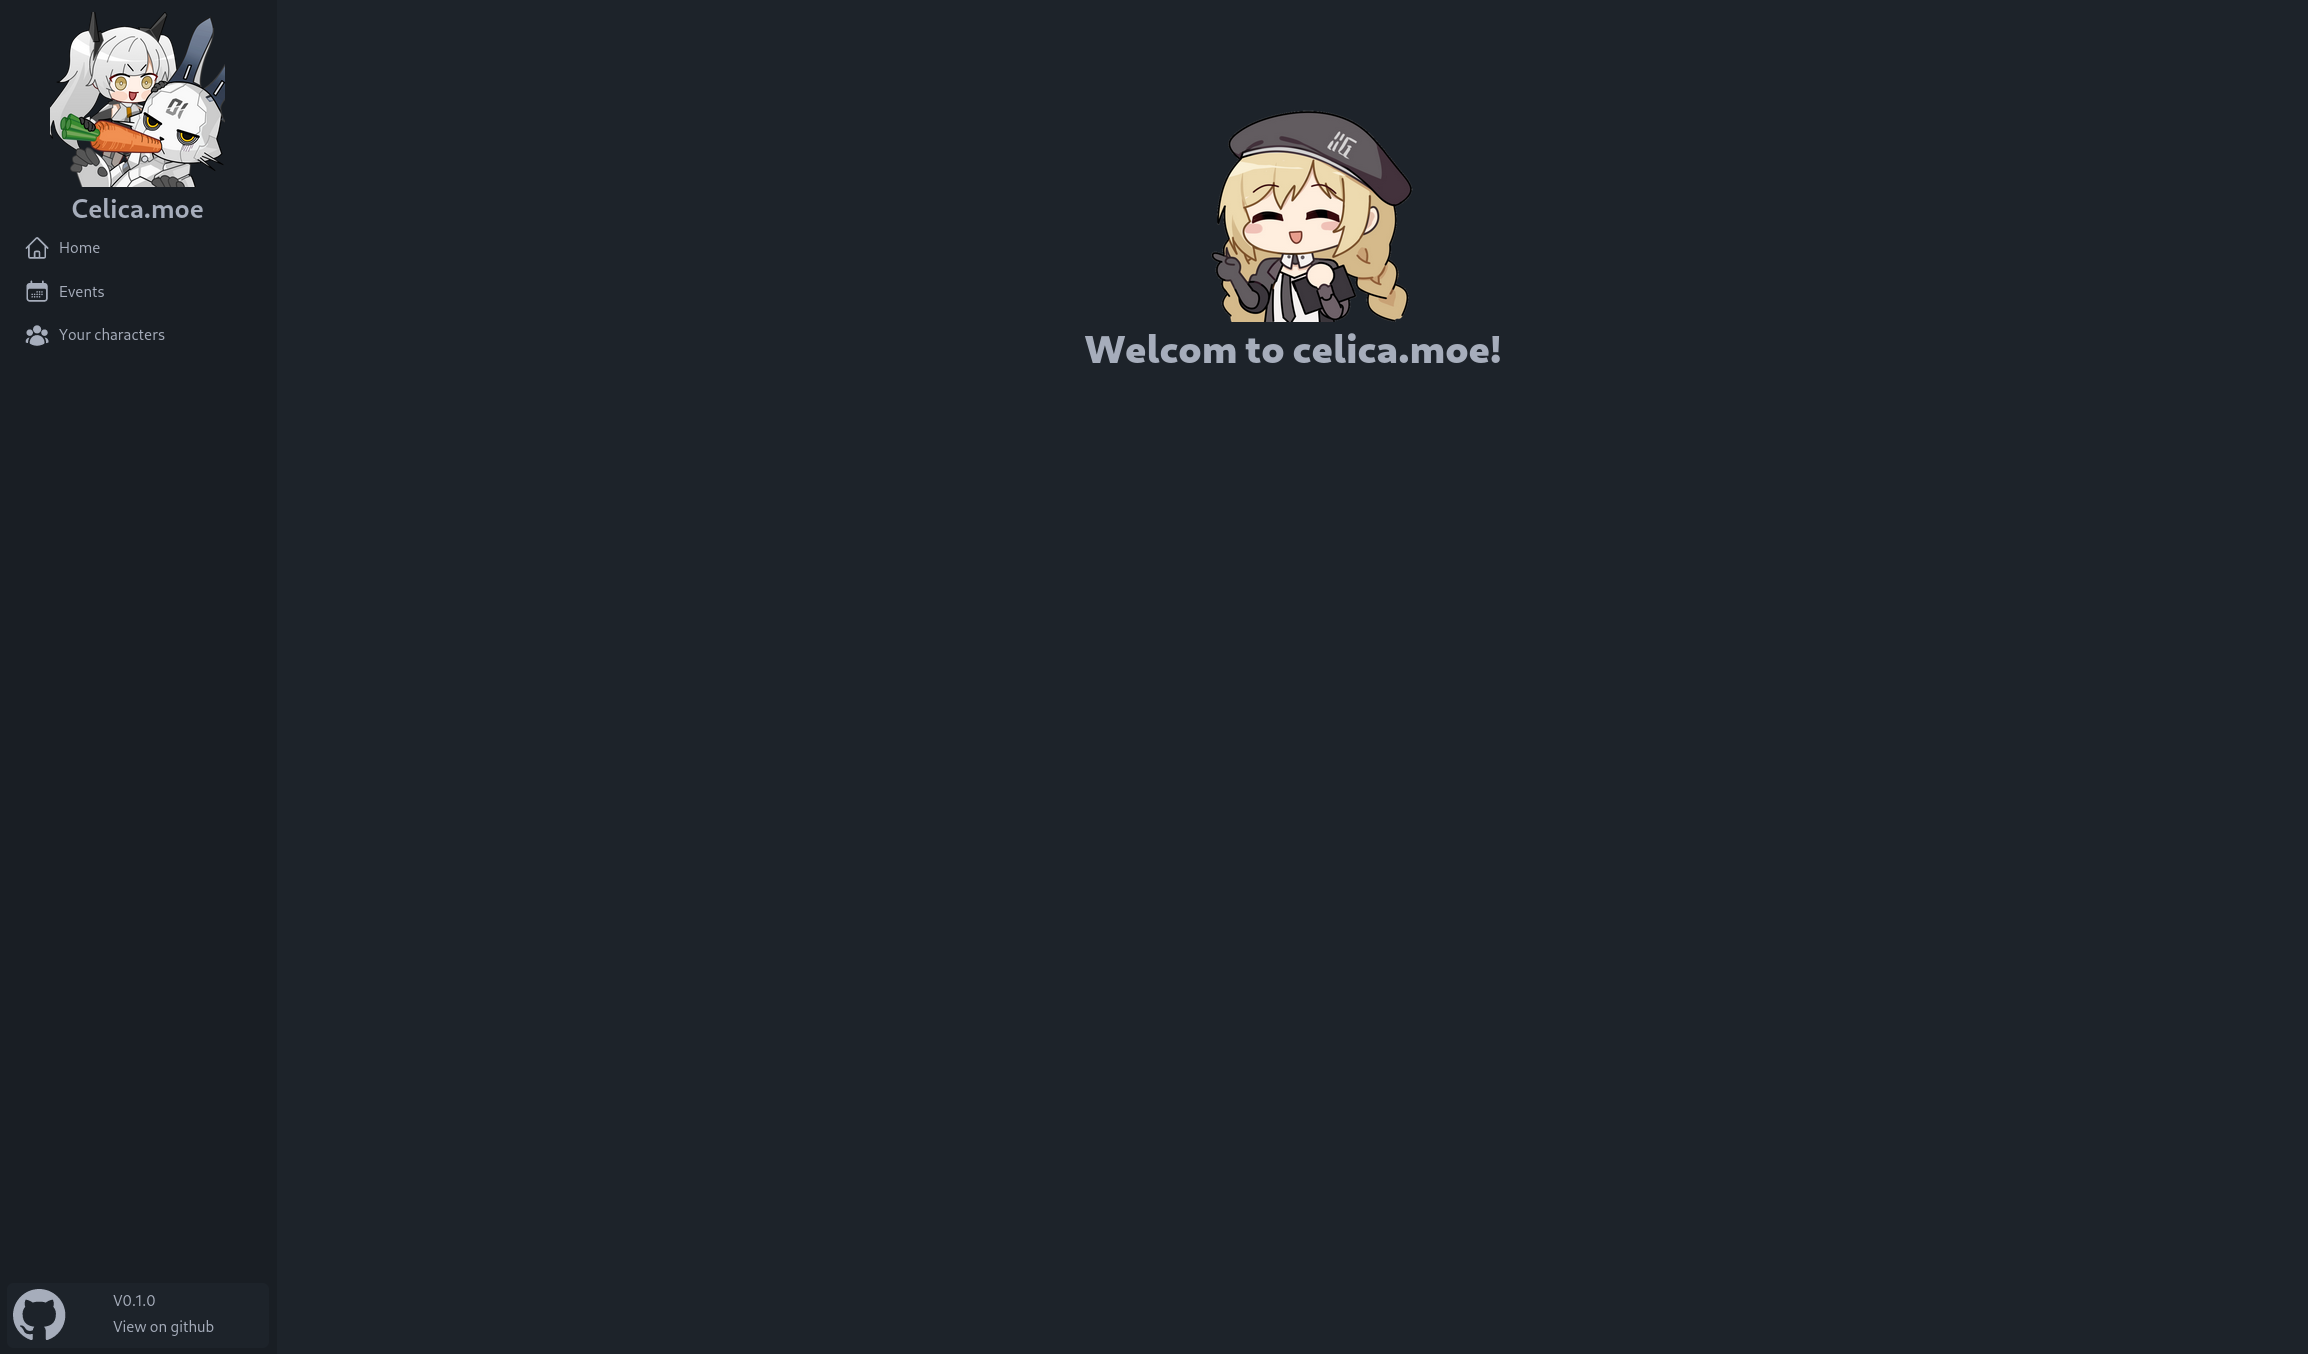
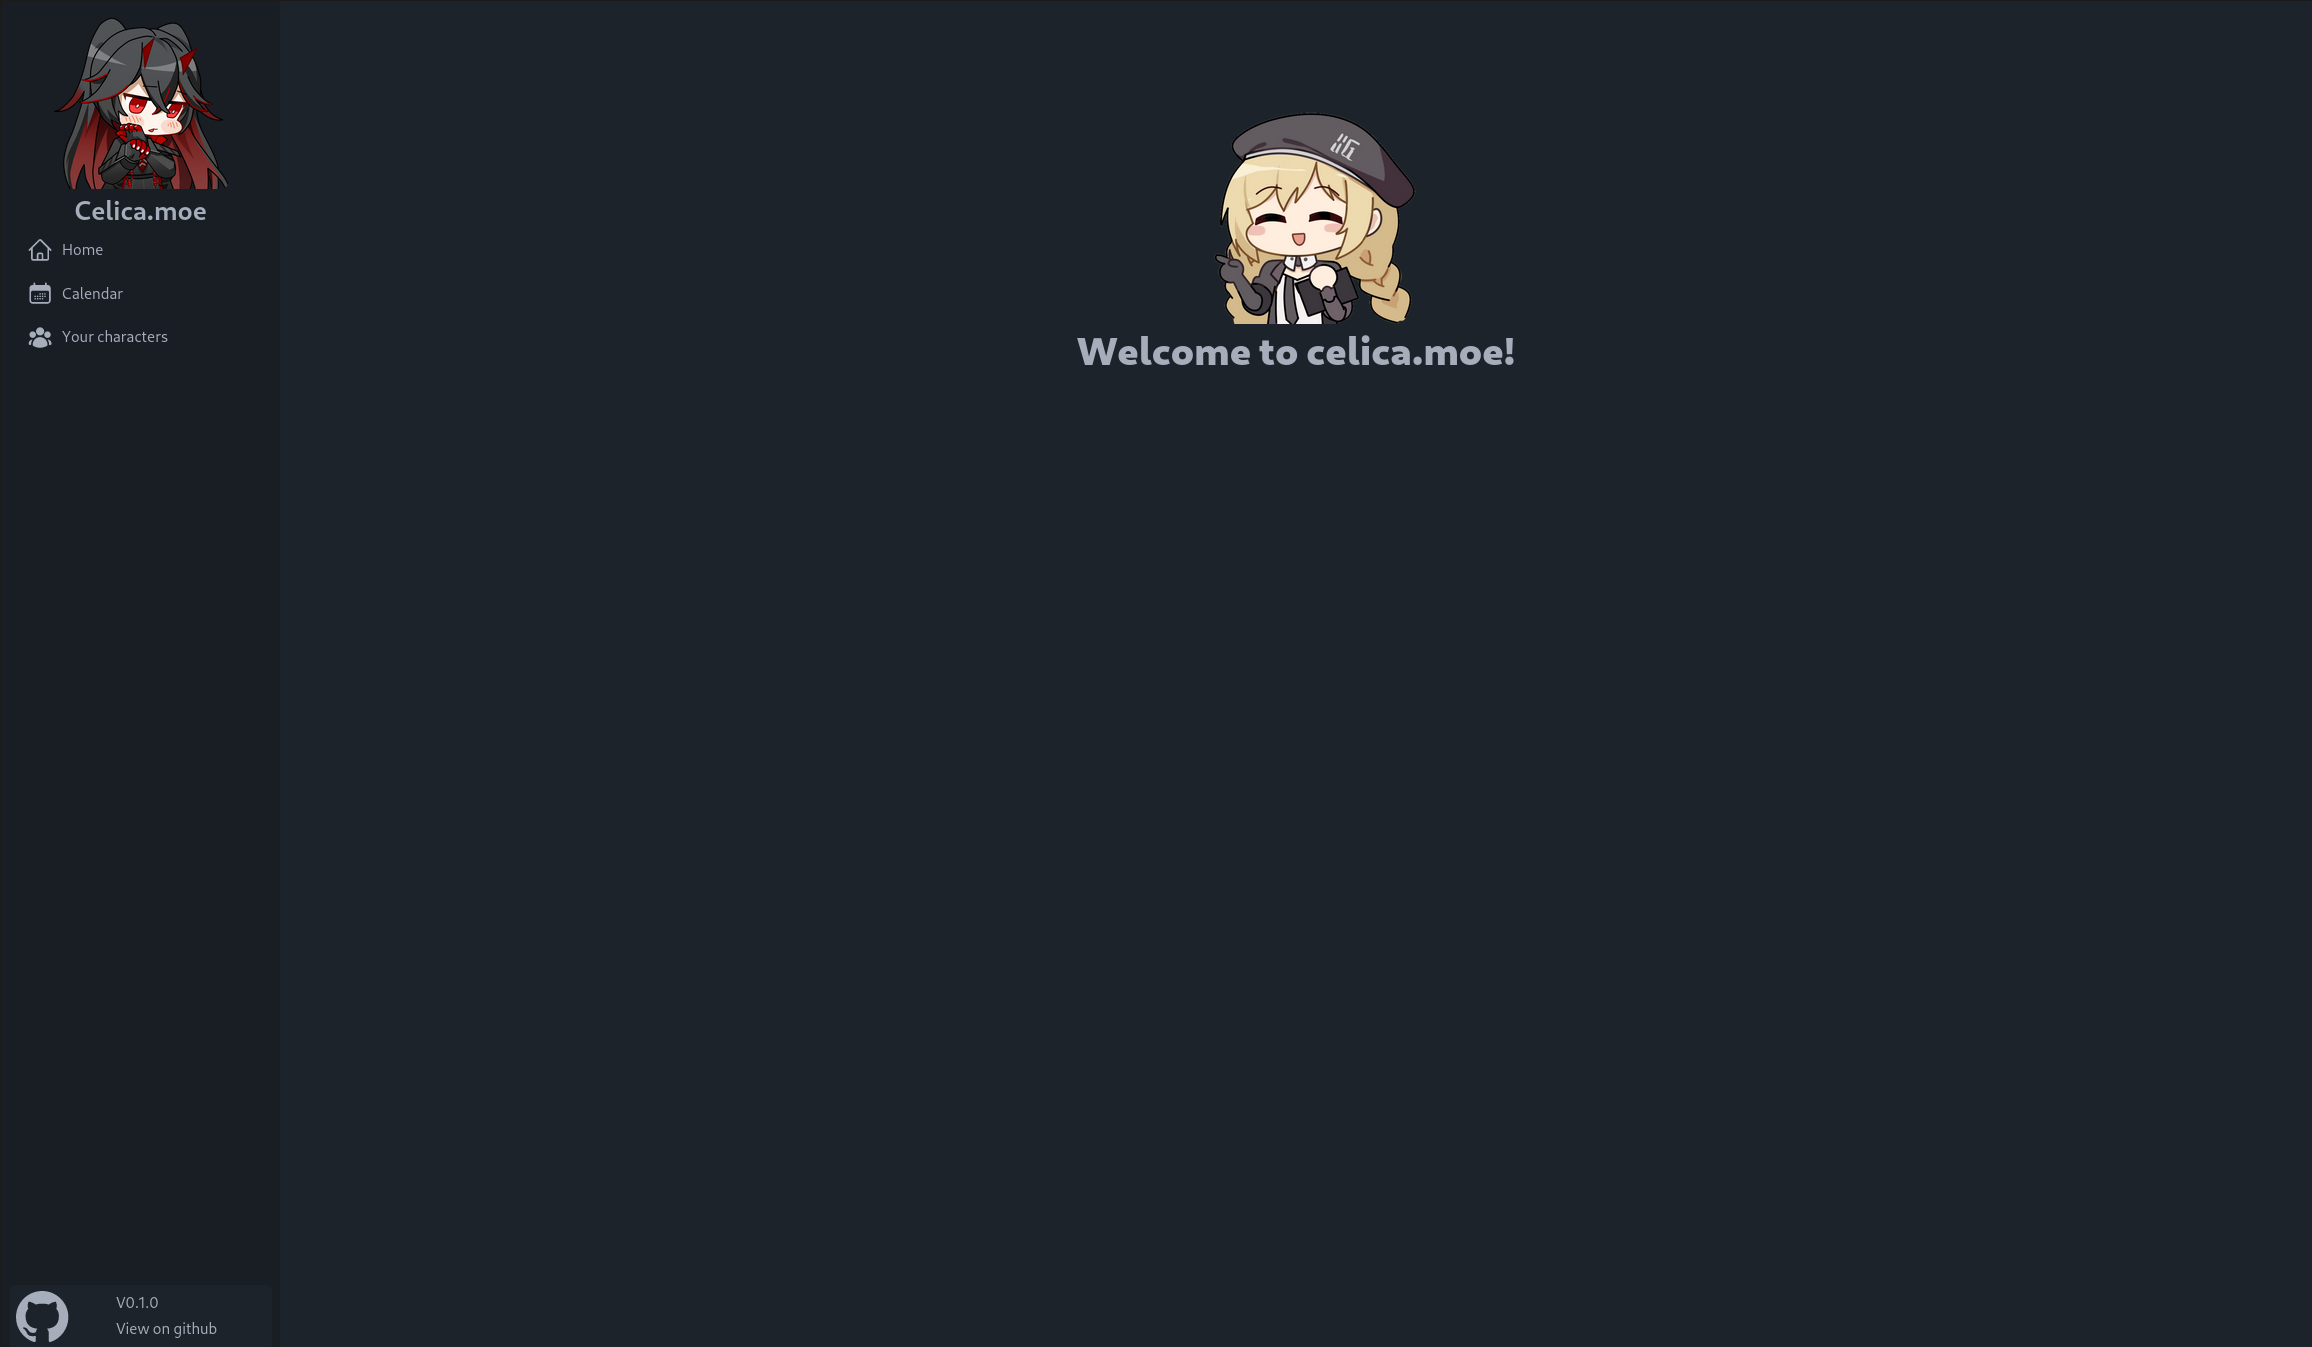
some typo and refactoring

diff --git a/src/app.rs b/src/app.rs
@@ -3,8 +3,9 @@ use crate::components::menu::MenuComponent;
 use leptos::*;
 use leptos_meta::*;
 use leptos_router::*;
+use crate::components::calendar::CalendarComponent;
 use crate::pages::characters::CharactersPages;
-use crate::pages::events::EventsPages;
+use crate::pages::calendar::CalendarPages;
 use crate::pages::home::HomePage;
 
 #[component]
@@ -38,7 +39,7 @@ pub fn App() -> impl IntoView {
                         <div class="m-10 prose block w-full max-w-full">
                             <Routes>
                                     <Route path="" view=HomePage/>
-                                    <Route path="/events" view=EventsPages/>
+                                    <Route path="/calendar" view=CalendarComponent/>
                                     <Route path="/characters" view=CharactersPages/>
                             </Routes>
                         </div>

diff --git a/src/pages/home.rs b/src/pages/home.rs
@@ -6,7 +6,7 @@ pub fn HomePage() -> impl IntoView {
         <div class="flex justify-center">
             <div class="block">
                 <img src="/celica_pointing.png" class="size-56 mx-auto mb-1"/>
-                <h1 class="mx-auto text-center">Welcom to celica.moe!</h1>
+                <h1 class="mx-auto text-center">Welcome to celica.moe!</h1>
             </div>
         </div>
     }

diff --git a/src/components/menu.rs b/src/components/menu.rs
@@ -25,8 +25,8 @@ pub fn MenuComponent() -> impl IntoView {
     let linked_pages = [
         Page::new("Home", "/", HeroicIcons::Home, HeroicIconsType::Outline),
         Page::new(
-            "Events",
-            "/events",
+            "Calendar",
+            "/calendar",
             HeroicIcons::CalendarDays,
             HeroicIconsType::Solid,
         ),

diff --git a/src/components/calendar.rs b/src/components/calendar.rs
@@ -4,7 +4,7 @@ use crate::huaxu::api::fetch_calendar;
 use crate::huaxu::models::calendar::Calendar;
 
 #[component]
-pub fn EventComponent() -> impl IntoView {
+pub fn CalendarComponent() -> impl IntoView {
 
     let (calendar, set_calendar) = create_signal(None::<Calendar>);
 

diff --git a/src/pages/calendar.rs b/src/pages/calendar.rs
@@ -1,0 +1,10 @@
+use leptos::{component, IntoView, view};
+use crate::components::calendar::CalendarComponent;
+
+#[component]
+pub fn CalendarPages() -> impl IntoView {
+    view! {
+        <h1>This is the event page</h1>
+        <CalendarComponent/>
+    }
+}

diff --git a/src/pages/mod.rs b/src/pages/mod.rs
@@ -1,3 +1,3 @@
 pub mod home;
-pub mod events;
+pub mod calendar;
 pub mod characters;

diff --git a/src/components/mod.rs b/src/components/mod.rs
@@ -1,3 +1,3 @@
 pub mod menu;
-pub mod event;
+pub mod calendar;
 mod base;

diff --git a/README.md b/README.md
@@ -17,7 +17,7 @@
 - [ ] Calendar
 - [ ] Current banner overview
 - [ ] Player overview
-  - [ ] Search player (by uuid and username)
+  - [ ] Search player (by uid and username)
   - [ ] Player detail
 
 ## Running the project
